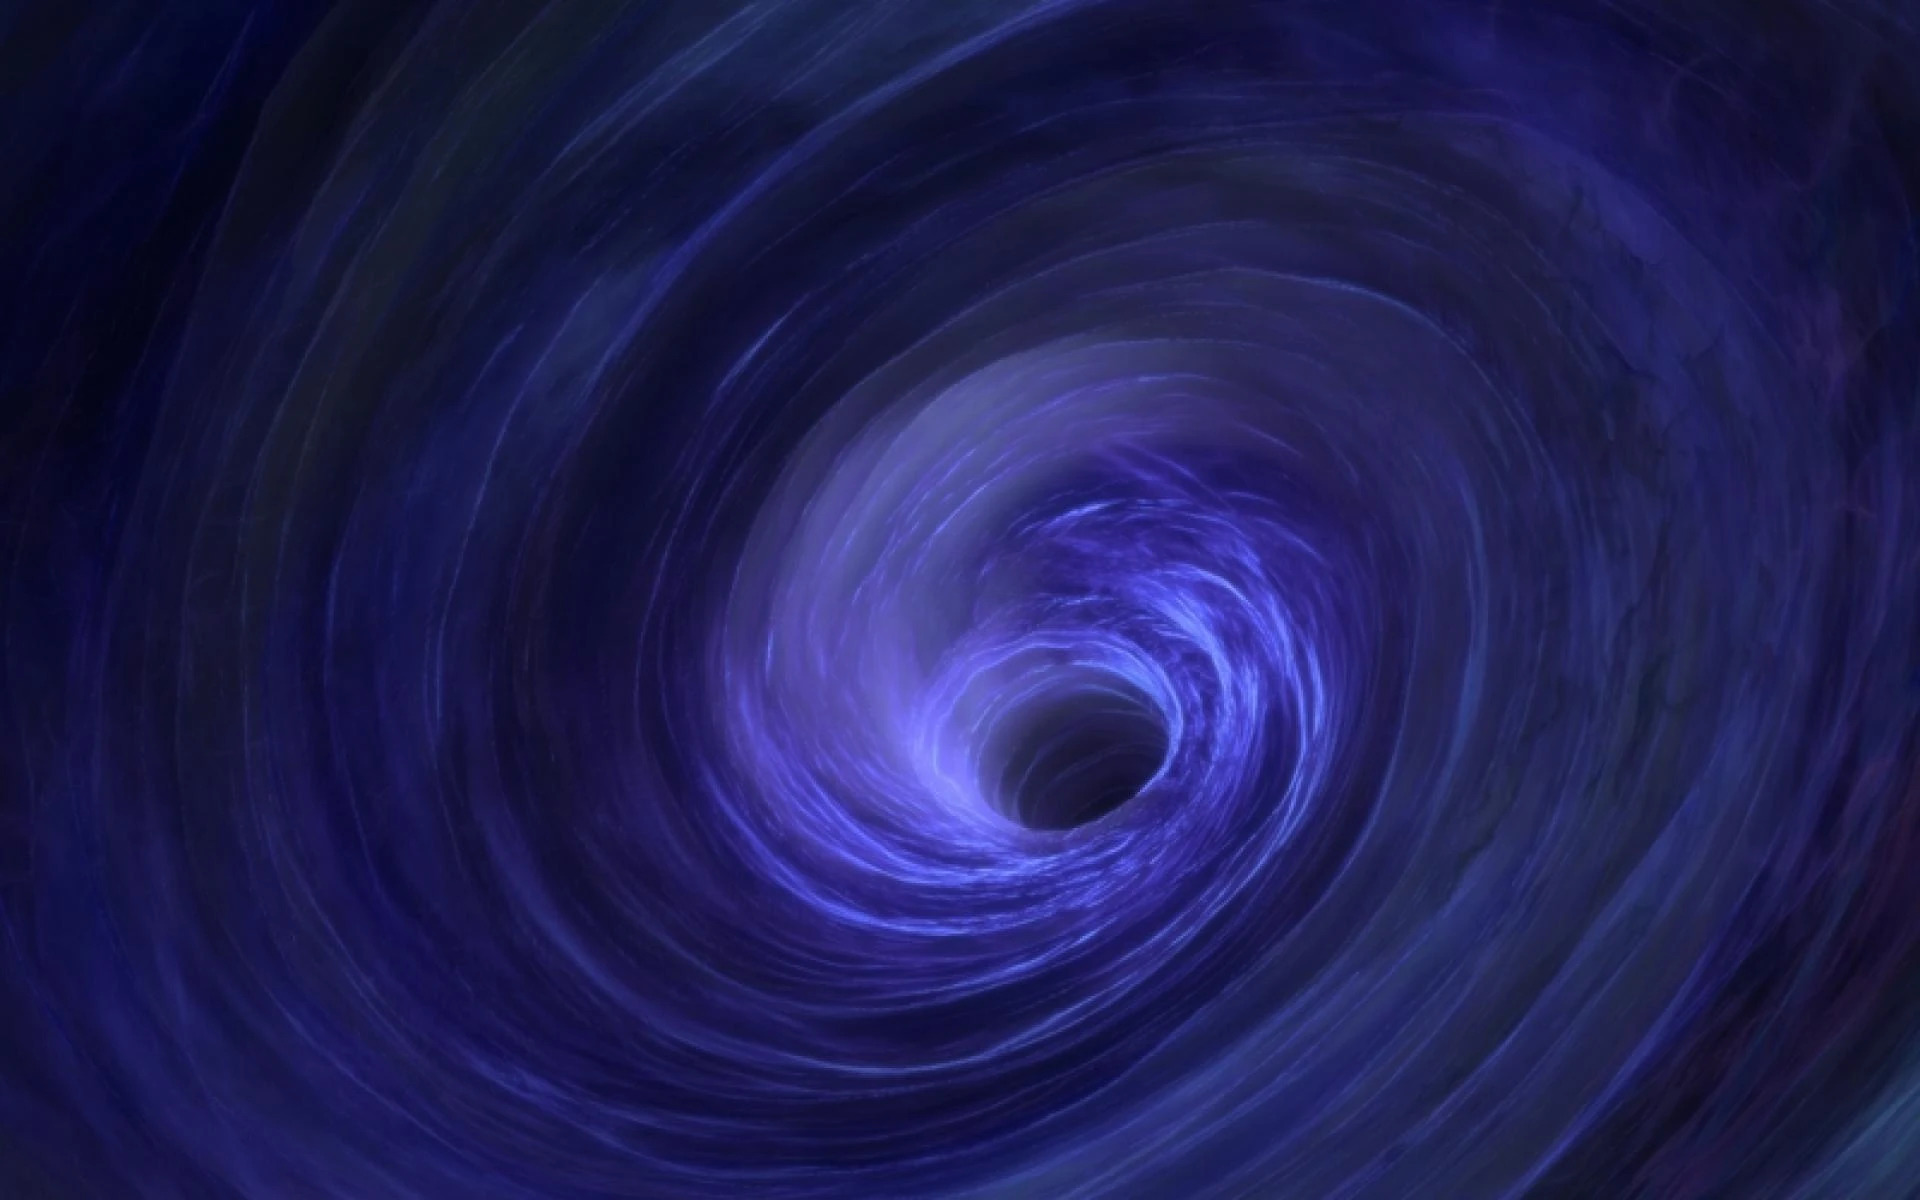
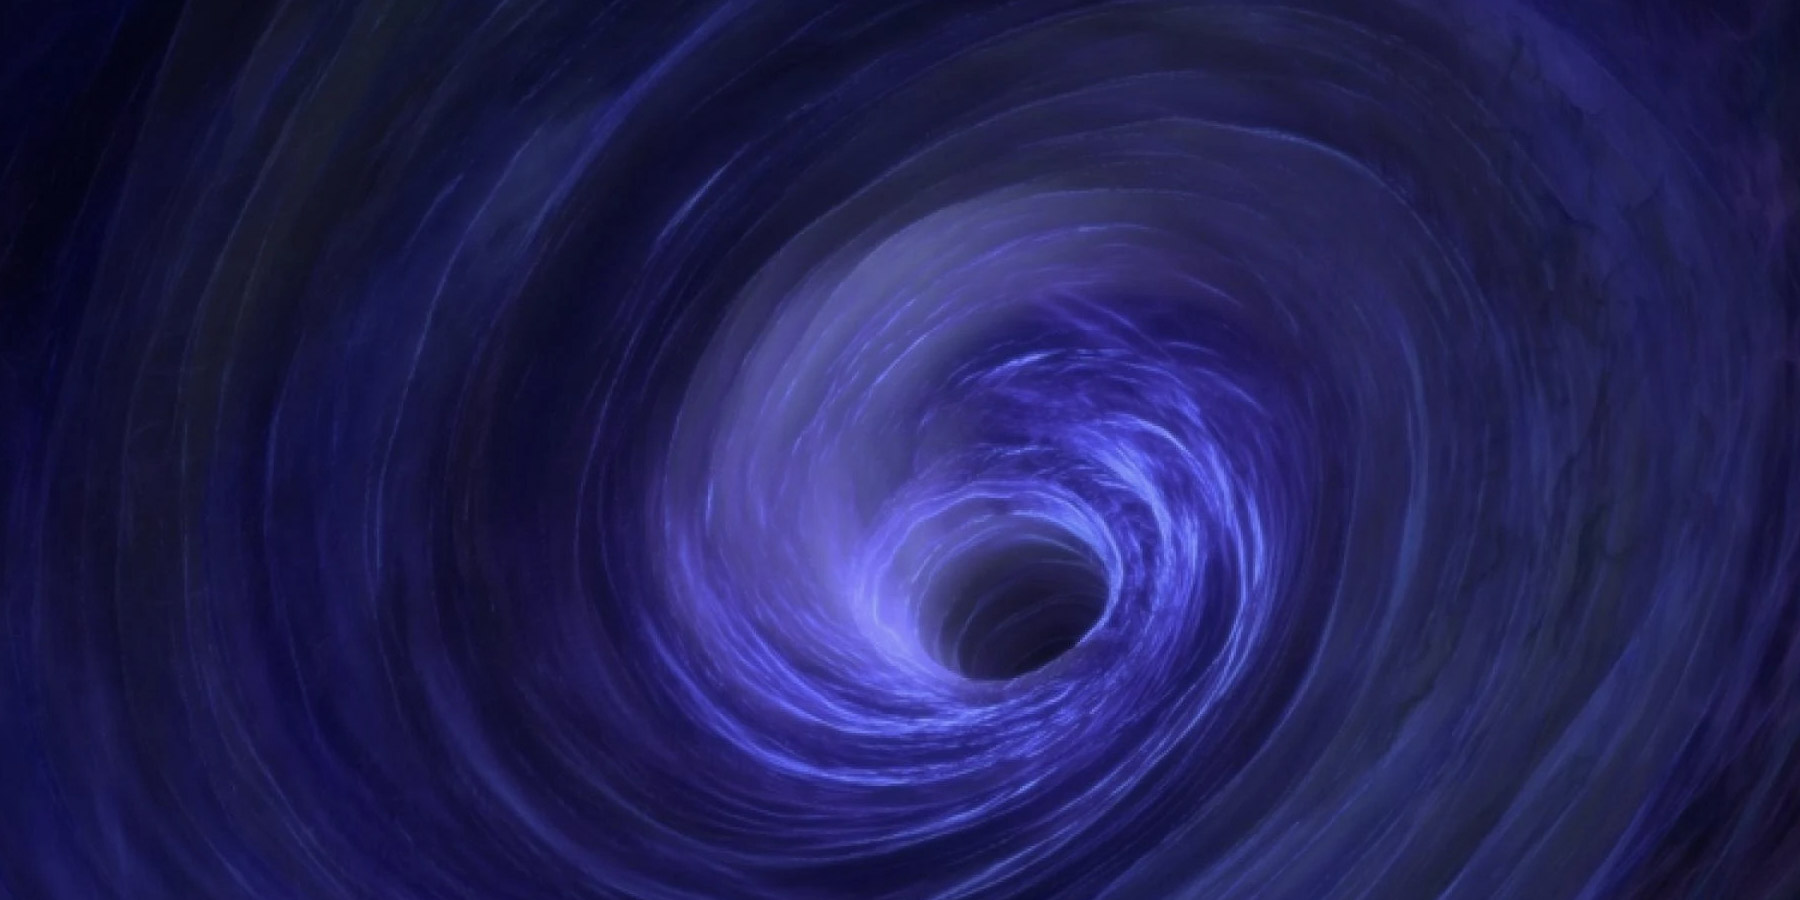
Personal Statement

diff --git a/src/content.config.ts b/src/content.config.ts
@@ -15,7 +15,7 @@ const blog = defineCollection({
 			updatedDate: z.coerce.date().optional(),
 			heroImage: z.array(z.string()).optional(),
 			draft: z.boolean().optional(),
-			category: z.enum(['General', 'Danger', 'Just a Little More']).optional(),
+			category: z.enum(['General', 'Danger', 'Just a Little More', 'How NOT to Write Your College Essays']).optional(),
 		}),
 });
 

diff --git a/src/content/blog/Personal Statement.md b/src/content/blog/Personal Statement.md
@@ -1,0 +1,22 @@
+---
+title: 'Personal Statement'
+description: 'Choice'
+pubDate: 'Dec 24 2025'
+heroImage: 
+    - /images/Void.jpg
+category: "How NOT to Write Your College Essays"
+---
+
+Our first-ever conversation was about living life despite knowing death was inevitable—how does one find meaning in a meaningless existence? The question has kept me up since grade school; I was desperate for an answer. I never got one. He just told me to take life as it comes, day by day. It would be a few years until the next time we talked. I didn’t even know he ran a nonprofit at the time—the last thing I saw myself doing was community service work, let alone social work—and I would never have imagined working for him. Yet, for one reason or another, I made that choice. 
+
+When he asked me to work for Family Harmony, long after I had forgotten that first conversation, weeding was the last thing on my mind. I was handed a trash picker and a bag, then sent into the overgrown shrubbery to work—the whole time I had shorts on, exposed to the poison ivy. While building up my bottle cap and soda can collection, keeping my head on a swivel for rats and raccoons, I started to ask why. Why was I spending my Saturday in Chinatown at some park the government didn’t even care enough about to maintain—would any of it make a difference? I could never understand how he did it, how Chris, my boss and mentor, could dedicate his life to such a doomed, meaningless endeavor. As I navigated the three-leaved landmines, it hit me: my being there didn’t matter.
+
+I kept cleaning parks for a while after that—as an excuse to just go outside, really—and eventually I was asked to do a workshop on teen mental health. I went in fully expecting everyone there to actually care, to genuinely try and walk a mile in another’s shoes—after all, they bothered to show up, right? It was like preaching to a choir, only they sang a whole other song. Those parents wanted to learn how to discipline their children, to make them listen, and I was but another measure for these kids to live up to, another metric on an infinite scale. Just like those weeds, it was hopeless—why bother? I had all but given up, succumbing to the suffocating futility, until one mom asked a simple question: “Where can I start?” I had no way of knowing she would change, no way of knowing she cared, but in that moment only one thing mattered: the chance. If I could just make one kid’s life a little better, that would give me purpose.
+
+Thinking back to that first-ever conversation we had, his words finally made sense. I was defeated, overcome with hopelessness, but that mom gave me a glimpse into the answer I’d long been searching for: the meaning was never what I sought; it was a purpose. His advice—to take life as it came, day by day—was never meant to answer that question; I was never meant to fill the void. Rather, it was an effort to help me search for meaning where there was none, for me to find solace in the choice. I was never looking for a reason to live; I was looking for a reason to care. Even if it was just that one person, even if it was ultimately inconsequential, I found my why. 
+
+No matter how pyrrhic the victory, it didn’t really matter. Chasing that fantasy, that unobtainable dream, is enough. That park from years ago is now teeming with people—we played little part in that. We weren’t the ones that restored the park; we were merely the first step in that chain, but the fact that we cared enough to try when no one else would—that’s what mattered. That choice to act despite the apparent futility, even in the face of overwhelming apathy: that is meaning. Even if it’s messy, even if it’s hard, I’ll always make that choice.
+
+--
+
+_Content was edited for formatting; originally a college essay._